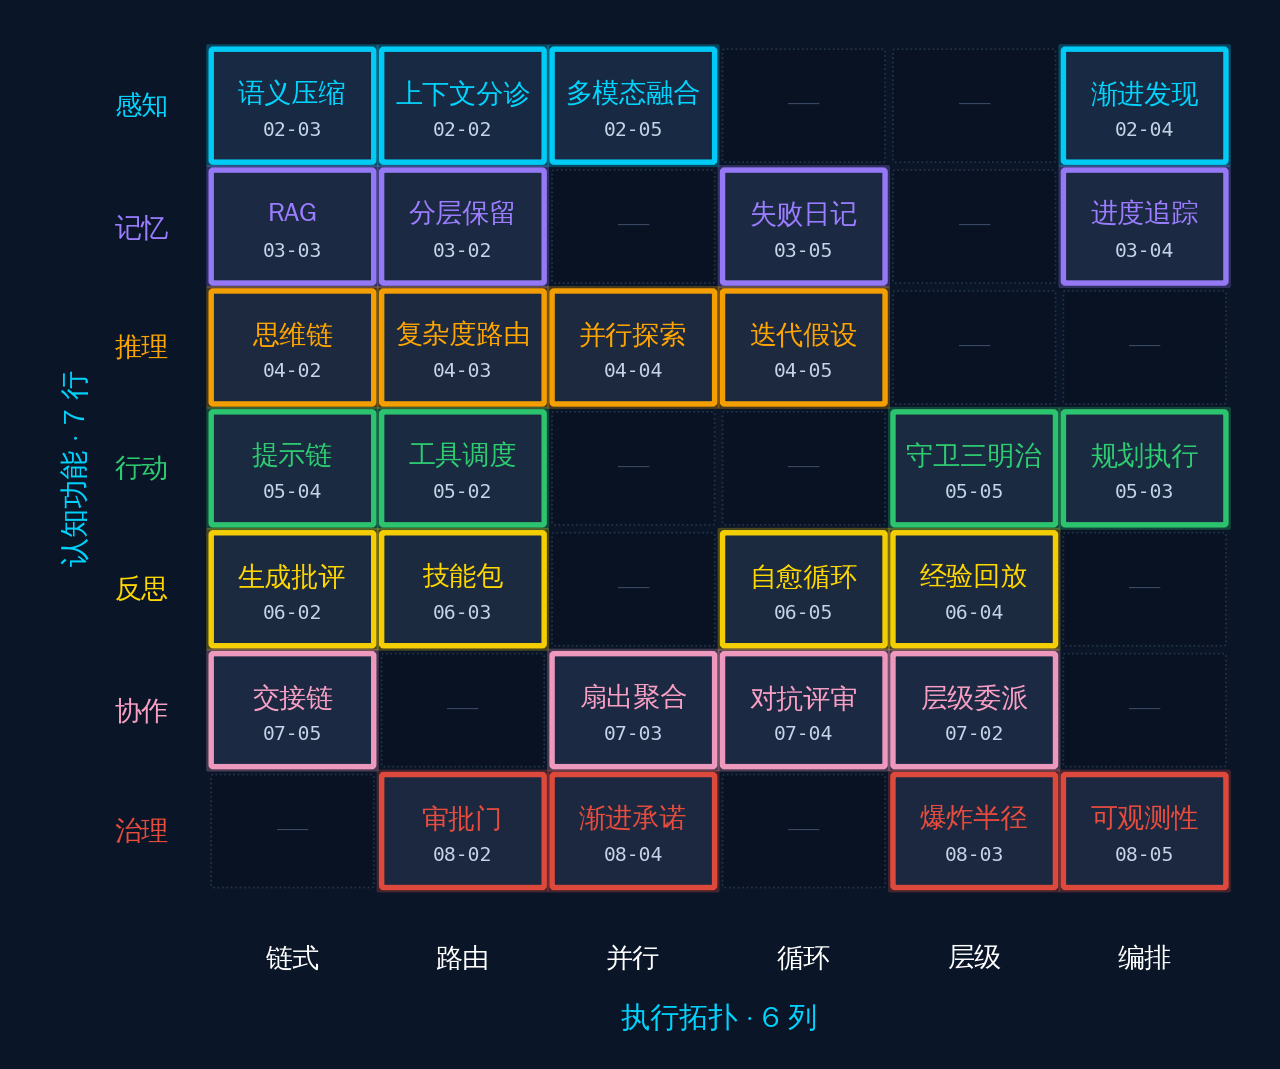
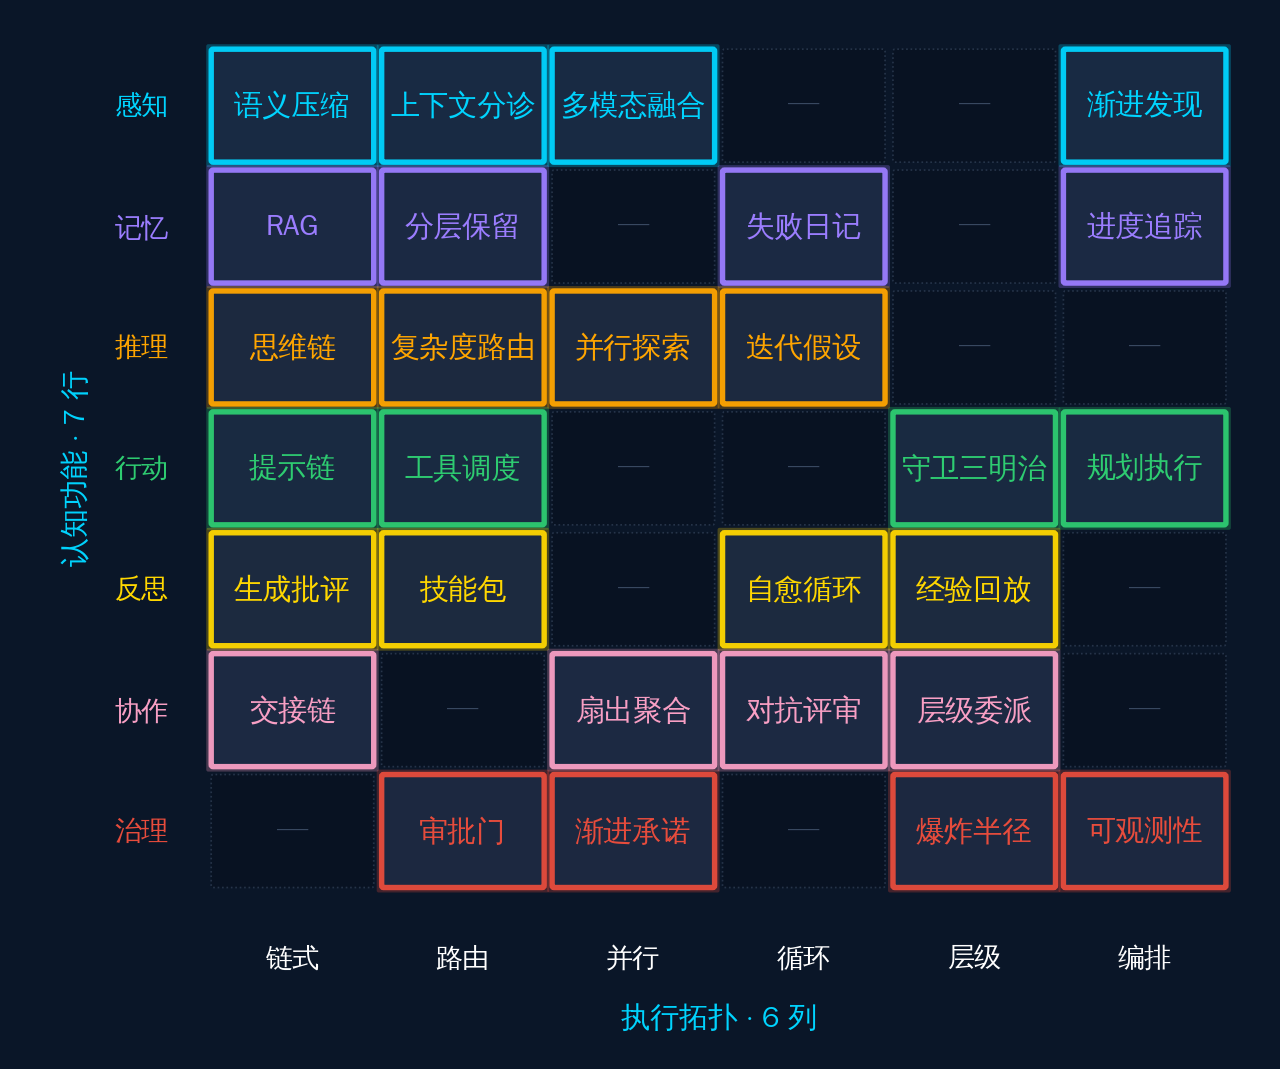
Patterns pages overhaul: new matrix PNG (no GeekTime codes, Orchestrate rightmost), drop duplicate image, EN listing now mirrors ZH with 33-pattern index + Choreography note, strip 课程对应 row from 33 detail pages

diff --git a/patterns/index.html b/patterns/index.html
@@ -43,7 +43,7 @@
 
             <p>
                 <strong>The model spends. The harness budgets.</strong> This catalog is the vocabulary
-                you can put in your project tomorrow.
+                you can put into your project tomorrow.
             </p>
 
             <p>
@@ -62,11 +62,11 @@
             </p>
 
             <figure style="margin: 2.5rem 0; text-align: center;">
-                <img src="/images/matrix-28-with-codes.png"
-                     alt="The 28-pattern matrix — full version with chapter codes"
+                <img src="/images/matrix-28-en-20260614.png"
+                     alt="The 28-pattern matrix — 7 cognitive functions × 6 execution topologies"
                      style="max-width: 100%; width: 100%; height: auto; border-radius: 6px; box-shadow: 0 2px 12px rgba(15, 58, 95, 0.12);">
                 <figcaption style="margin-top: 0.6rem; font-size: 0.88rem; color: var(--color-text-muted); font-style: italic;">
-                    Figure 1. The 28-pattern matrix. Rows are cognitive functions; columns are execution topologies. Codes (e.g. <code>02-03</code>) reference the chapter introducing the pattern in <em>Designing AI Agents</em>.
+                    The 28-pattern matrix. Rows are cognitive functions; columns are execution topologies. Empty cells mark industrial gaps and open-research frontiers.
                 </figcaption>
             </figure>
 
@@ -77,47 +77,111 @@
             </p>
             <p>
                 <strong>Execution topology</strong> (the columns) — what shape the work takes.
-                Six archetypes: Chain, Route, Parallel, Orchestrate, Loop, Hierarchy.
+                Six archetypes: Chain, Route, Parallel, Loop, Hierarchy, Orchestrate.
             </p>
             <p>
-                Crossed, the axes form a 7×6 = 42-cell matrix. Twenty-eight cells are populated by named patterns,
+                Crossed, the axes form a 7×6 = 42-cell matrix. Twenty-eight cells are populated by named patterns —
                 some borrowed from existing literature (RAG, Chain-of-Thought, Plan-and-Execute), some named here for
                 cells that had no established name (Context Triage, Failure Journal, Observability Harness, others).
-                Fourteen cells are intentionally empty — representing the industrial blanks and the future-research frontier.
+                Fourteen cells are intentionally empty — they mark industrial gaps and open-research frontiers.
+            </p>
+            <p style="font-size: 0.88rem; color: var(--color-text-muted); border-left: 3px solid var(--color-rule); padding-left: 0.9rem; margin: 1rem 0 1.5rem;">
+                <strong style="color: var(--color-text);">A note on Choreography.</strong>
+                Choreography is sometimes listed as a topology. We treat it instead as a coordination
+                mode that operates <em>across</em> topologies — closer in spirit to the Teams pattern
+                than to an independent execution shape — so it is described in the patterns text
+                rather than given its own column.
             </p>
 
-            <figure style="margin: 2.5rem 0; text-align: center;">
-                <img src="/images/matrix-28-minimal.png"
-                     alt="The 28-pattern matrix — minimal view, names only"
-                     style="max-width: 100%; width: 100%; height: auto; border-radius: 6px; box-shadow: 0 2px 12px rgba(15, 58, 95, 0.12);">
-                <figcaption style="margin-top: 0.6rem; font-size: 0.88rem; color: var(--color-text-muted); font-style: italic;">
-                    Figure 2. Minimal view of the same matrix — pattern names only. Empty cells are intentional.
-                </figcaption>
-            </figure>
-
-            <h2>Pattern white papers</h2>
+            <h2>Pattern white papers · 28 core + 5 extension = 33</h2>
             <p>
-                Every named cell in the matrix has a one-page enterprise white paper — what problem it
-                solves, what coordinate it sits at, where it tends to break, and what to monitor once it
-                ships. They are written for the whole organization, not just engineers: product,
-                architecture, R&amp;D, compliance, and management.
+                Every named cell has a one-page enterprise white paper: what problem it solves, what
+                coordinate it sits at, where it tends to break, and what to monitor once it ships.
+                Written for the whole organization — product, architecture, R&amp;D, compliance,
+                management — not just engineers.
             </p>
             <p>
-                Following the ADPS Chinese-first publishing pipeline, the 33 deep-dive white papers are
-                published in Chinese first; English editions are in progress.
-                <a href="/zh/patterns/">Browse the 33 white papers (Chinese) →</a>
+                Five <span style="font-size:0.72em; color: var(--color-brass, #b8842b); border:1px solid currentColor; border-radius:3px; padding:0 4px; vertical-align:middle;">extension</span>
+                patterns (M5 Procedural Memory · R5 Talker-Reasoner · A4 Minimal Tool Set · C5 Sub-Agent Isolation · G4 Hooks Pipeline)
+                sit alongside the 28 core patterns; each has its own white paper, bringing the total to 33.
+            </p>
+            <p style="font-size: 0.9rem; color: var(--color-text-muted); background: var(--color-quote-bg); border: 1px solid var(--color-rule); border-radius: 4px; padding: 0.7rem 1rem; margin: 1rem 0 1.5rem;">
+                Following the ADPS Chinese-first publishing pipeline, the 33 white papers are
+                currently published in Chinese. English editions are in progress; pattern links
+                below point to the Chinese white papers in the meantime.
             </p>
 
-            <h2>The matrix</h2>
+            <h3>Perception · 4 core</h3>
+            <ul style="list-style: none; margin: 0.5rem 0 1.75rem 0; padding: 0;">
+                <li style="margin-bottom: 0.7rem; line-height: 1.55;"><a href="/zh/patterns/p1-context-triage/" style="font-weight: 600;">P1 · Context Triage</a><span style="color: var(--color-text-muted);"> — When candidate information exceeds the context window budget, decide who enters, who waits at the door, and who is not pre-loaded at all.</span></li>
+                <li style="margin-bottom: 0.7rem; line-height: 1.55;"><a href="/zh/patterns/p2-semantic-compaction/" style="font-weight: 600;">P2 · Semantic Compaction</a><span style="color: var(--color-text-muted);"> — When the agent's context fills up, what to keep and how aggressively to compress determines whether it can still reason clearly afterward.</span></li>
+                <li style="margin-bottom: 0.7rem; line-height: 1.55;"><a href="/zh/patterns/p3-progressive-discovery/" style="font-weight: 600;">P3 · Progressive Discovery</a><span style="color: var(--color-text-muted);"> — Facing an unfamiliar information space, the agent scans broadly first, then focuses, then drills — a three-phase loop until the space is mapped.</span></li>
+                <li style="margin-bottom: 0.7rem; line-height: 1.55;"><a href="/zh/patterns/p4-multi-modal-fusion/" style="font-weight: 600;">P4 · Multi-Modal Fusion</a><span style="color: var(--color-text-muted);"> — Inputs arrive as images, text, tables, logs. Convert each to its LLM-friendliest form, then merge and pass to reasoning.</span></li>
+            </ul>
+
+            <h3>Memory · 4 core + 1 extension</h3>
+            <ul style="list-style: none; margin: 0.5rem 0 1.75rem 0; padding: 0;">
+                <li style="margin-bottom: 0.7rem; line-height: 1.55;"><a href="/zh/patterns/m1-hierarchical-retention/" style="font-weight: 600;">M1 · Hierarchical Retention</a><span style="color: var(--color-text-muted);"> — Slice agent memory into layers by scope; each layer has its own storage, lifecycle, and load strategy. New sessions load coarse-to-fine.</span></li>
+                <li style="margin-bottom: 0.7rem; line-height: 1.55;"><a href="/zh/patterns/m2-rag-pipeline/" style="font-weight: 600;">M2 · RAG Pipeline</a><span style="color: var(--color-text-muted);"> — Hand the agent an external library it can query, filter, and iterate against whenever the needed knowledge exceeds context capacity.</span></li>
+                <li style="margin-bottom: 0.7rem; line-height: 1.55;"><a href="/zh/patterns/m3-progress-tracking/" style="font-weight: 600;">M3 · Progress Tracking</a><span style="color: var(--color-text-muted);"> — On long tasks, the agent maintains an explicit structured todo list, externalizing state each round so both itself and the user can see progress.</span></li>
+                <li style="margin-bottom: 0.7rem; line-height: 1.55;"><a href="/zh/patterns/m4-failure-journals/" style="font-weight: 600;">M4 · Failure Journals</a><span style="color: var(--color-text-muted);"> — Each failure recorded as a structured entry (which step, what error, root cause, fix) — persisted across tasks, recalled on similar future runs.</span></li>
+                <li style="margin-bottom: 0.7rem; line-height: 1.55;"><a href="/zh/patterns/m5-procedural-memory/" style="font-weight: 600;">M5 · Procedural Memory</a> <span style="font-size:0.72em; color: var(--color-brass, #b8842b); border:1px solid currentColor; border-radius:3px; padding:0 4px; vertical-align:middle;">extension</span><span style="color: var(--color-text-muted);"> — Solidify successful execution flows for a task class into named, loadable, reusable assets; next time the same class arrives, skip exploration and run the main path.</span></li>
+            </ul>
+
+            <h3>Reasoning · 4 core + 1 extension</h3>
+            <ul style="list-style: none; margin: 0.5rem 0 1.75rem 0; padding: 0;">
+                <li style="margin-bottom: 0.7rem; line-height: 1.55;"><a href="/zh/patterns/r1-chain-of-thought/" style="font-weight: 600;">R1 · Chain-of-Thought</a><span style="color: var(--color-text-muted);"> — Make the model's reasoning explicit as a structured, storable, auditable, cross-model-portable record. "Why did it conclude that" becomes inspectable.</span></li>
+                <li style="margin-bottom: 0.7rem; line-height: 1.55;"><a href="/zh/patterns/r2-complexity-based-routing/" style="font-weight: 600;">R2 · Complexity-Based Routing</a><span style="color: var(--color-text-muted);"> — Before entering the main loop, route by complexity signal to model + effort tier; cheap requests run on cheap models, hard ones on expensive ones. Sort by triage, not by uniform retry.</span></li>
+                <li style="margin-bottom: 0.7rem; line-height: 1.55;"><a href="/zh/patterns/r3-parallel-exploration/" style="font-weight: 600;">R3 · Parallel Exploration</a><span style="color: var(--color-text-muted);"> — Deliberately fire N independent reasoning chains for the same query, then aggregate into a single answer. Compute traded for accuracy.</span></li>
+                <li style="margin-bottom: 0.7rem; line-height: 1.55;"><a href="/zh/patterns/r4-iterative-hypothesis-testing/" style="font-weight: 600;">R4 · Iterative Hypothesis Testing</a><span style="color: var(--color-text-muted);"> — Form a hypothesis, validate with evidence, revise on the result; loop until evidence converges or the iteration cap is reached. Scientific method, embedded into reasoning.</span></li>
+                <li style="margin-bottom: 0.7rem; line-height: 1.55;"><a href="/zh/patterns/r5-talker-reasoner/" style="font-weight: 600;">R5 · Talker-Reasoner</a> <span style="font-size:0.72em; color: var(--color-brass, #b8842b); border:1px solid currentColor; border-radius:3px; padding:0 4px; vertical-align:middle;">extension</span><span style="color: var(--color-text-muted);"> — Split the agent into a fast shallow Talker and a slow deep Reasoner, coordinated through a shared belief state. The agent can think deeply and still reply to the user in real time.</span></li>
+            </ul>
+
+            <h3>Action · 4 core + 1 extension</h3>
+            <ul style="list-style: none; margin: 0.5rem 0 1.75rem 0; padding: 0;">
+                <li style="margin-bottom: 0.7rem; line-height: 1.55;"><a href="/zh/patterns/a1-tool-dispatch/" style="font-weight: 600;">A1 · Tool Dispatch</a><span style="color: var(--color-text-muted);"> — Before each action step, the engineering layer picks the most appropriate tool from the registry using metadata — not by letting the model decide on the fly.</span></li>
+                <li style="margin-bottom: 0.7rem; line-height: 1.55;"><a href="/zh/patterns/a2-plan-and-execute/" style="font-weight: 600;">A2 · Plan-and-Execute</a><span style="color: var(--color-text-muted);"> — Agent generates a complete plan first (with dependencies, resource estimates, approval nodes), then executes it; on deviation, replan locally rather than rewrite globally.</span></li>
+                <li style="margin-bottom: 0.7rem; line-height: 1.55;"><a href="/zh/patterns/a3-prompt-chaining/" style="font-weight: 600;">A3 · Prompt Chaining</a><span style="color: var(--color-text-muted);"> — Decompose a complex task into a series of smaller tasks, each driven by its own prompt; the output of one step feeds the next.</span></li>
+                <li style="margin-bottom: 0.7rem; line-height: 1.55;"><a href="/zh/patterns/a4-minimal-tool-set/" style="font-weight: 600;">A4 · Minimal Tool Set</a> <span style="font-size:0.72em; color: var(--color-brass, #b8842b); border:1px solid currentColor; border-radius:3px; padding:0 4px; vertical-align:middle;">extension</span><span style="color: var(--color-text-muted);"> — Cap the agent's tool set at a reasonable ceiling (usually 10–30): drop low-frequency tools, merge similar ones, push secondary tools into sub-agents. Give the model room to choose.</span></li>
+                <li style="margin-bottom: 0.7rem; line-height: 1.55;"><a href="/zh/patterns/a5-guardrail-sandwich/" style="font-weight: 600;">A5 · Guardrail Sandwich</a><span style="color: var(--color-text-muted);"> — Around every side-effecting or high-risk action, wrap a pre-check / action / post-check sandwich. Move the agent from "free action" to "supervised action".</span></li>
+            </ul>
+
+            <h3>Reflection · 4 core</h3>
+            <ul style="list-style: none; margin: 0.5rem 0 1.75rem 0; padding: 0;">
+                <li style="margin-bottom: 0.7rem; line-height: 1.55;"><a href="/zh/patterns/f1-generator-critic/" style="font-weight: 600;">F1 · Generator-Critic</a><span style="color: var(--color-text-muted);"> — Two roles inside one agent: Generator writes, Critic reviews; loop until the critic passes or the iteration cap is reached.</span></li>
+                <li style="margin-bottom: 0.7rem; line-height: 1.55;"><a href="/zh/patterns/f2-skill-package/" style="font-weight: 600;">F2 · Skill Package</a><span style="color: var(--color-text-muted);"> — Package repeatedly successful workflows into named, loadable, reusable assets; on the next similar task, load instead of rediscovering from scratch.</span></li>
+                <li style="margin-bottom: 0.7rem; line-height: 1.55;"><a href="/zh/patterns/f3-experience-replay/" style="font-weight: 600;">F3 · Experience Replay</a><span style="color: var(--color-text-muted);"> — When a new task arrives, the agent actively retrieves similar historical task trajectories and injects reusable parts into current context. What was learned does not go to waste.</span></li>
+                <li style="margin-bottom: 0.7rem; line-height: 1.55;"><a href="/zh/patterns/f4-self-heal-loop/" style="font-weight: 600;">F4 · Self-Heal Loop</a><span style="color: var(--color-text-muted);"> — On a deterministic failure signal, the agent auto-diagnoses, fixes, validates, loops — until convergence or a circuit breaker.</span></li>
+            </ul>
+
+            <h3>Collaboration · 4 core + 1 extension</h3>
+            <ul style="list-style: none; margin: 0.5rem 0 1.75rem 0; padding: 0;">
+                <li style="margin-bottom: 0.7rem; line-height: 1.55;"><a href="/zh/patterns/c1-hierarchical-delegation/" style="font-weight: 600;">C1 · Hierarchical Delegation</a><span style="color: var(--color-text-muted);"> — A supervisor agent dynamically splits a task, dispatches to N worker agents, and merges results. Classic multi-agent supervisor/worker coordination.</span></li>
+                <li style="margin-bottom: 0.7rem; line-height: 1.55;"><a href="/zh/patterns/c2-fan-out-gather/" style="font-weight: 600;">C2 · Fan-Out / Gather</a><span style="color: var(--color-text-muted);"> — An orchestrator dispatches independent sub-tasks to N sub-agents in parallel; an aggregator merges them via a defined strategy. N× compute for 1/N latency.</span></li>
+                <li style="margin-bottom: 0.7rem; line-height: 1.55;"><a href="/zh/patterns/c3-adversarial-review/" style="font-weight: 600;">C3 · Adversarial Review</a><span style="color: var(--color-text-muted);"> — Pair a generator agent with one or more independent critics; critics must use different models, different families, different prompting incentives. Structured adversarial loop improves the output.</span></li>
+                <li style="margin-bottom: 0.7rem; line-height: 1.55;"><a href="/zh/patterns/c4-handoff-chain/" style="font-weight: 600;">C4 · Handoff Chain</a><span style="color: var(--color-text-muted);"> — Split a long flow into N agents with clear responsibilities; each hands off a structured HandoffPacket (not raw text) to the next. Each agent is good at one thing.</span></li>
+                <li style="margin-bottom: 0.7rem; line-height: 1.55;"><a href="/zh/patterns/c5-sub-agent-isolation/" style="font-weight: 600;">C5 · Sub-Agent Isolation</a> <span style="font-size:0.72em; color: var(--color-brass, #b8842b); border:1px solid currentColor; border-radius:3px; padding:0 4px; vertical-align:middle;">extension</span><span style="color: var(--color-text-muted);"> — Sub-agents run in isolated context; before returning, they must compress into a schema-shaped artifact. The parent agent reads the artifact, not the raw trajectory.</span></li>
+            </ul>
+
+            <h3>Governance · 4 core + 1 extension</h3>
+            <ul style="list-style: none; margin: 0.5rem 0 1.75rem 0; padding: 0;">
+                <li style="margin-bottom: 0.7rem; line-height: 1.55;"><a href="/zh/patterns/g1-approval-gate/" style="font-weight: 600;">G1 · Approval Gate</a><span style="color: var(--color-text-muted);"> — Before any high-blast-radius or irreversible action, route by risk to one of three lanes: auto-pass / log / human review. Humans retain final veto at the critical decision points.</span></li>
+                <li style="margin-bottom: 0.7rem; line-height: 1.55;"><a href="/zh/patterns/g2-blast-radius-control/" style="font-weight: 600;">G2 · Blast Radius Control</a><span style="color: var(--color-text-muted);"> — Classify actions (readonly / mutating / catastrophic) and use nested engineering boundaries to lock the maximum loss from a single failure.</span></li>
+                <li style="margin-bottom: 0.7rem; line-height: 1.55;"><a href="/zh/patterns/g3-progressive-commitment/" style="font-weight: 600;">G3 · Progressive Commitment</a><span style="color: var(--color-text-muted);"> — The agent starts read-only; permissions unlock in stages — to writes, then to irreversible actions. Each tier earned with evidence; failures trigger immediate demotion.</span></li>
+                <li style="margin-bottom: 0.7rem; line-height: 1.55;"><a href="/zh/patterns/g4-hooks-pipeline/" style="font-weight: 600;">G4 · Hooks Pipeline</a> <span style="font-size:0.72em; color: var(--color-brass, #b8842b); border:1px solid currentColor; border-radius:3px; padding:0 4px; vertical-align:middle;">extension</span><span style="color: var(--color-text-muted);"> — Attach deterministic interception layers before and after tool calls and agent steps. Strip from the prompt anything the model shouldn't be left to decide — guarantee it in hooks.</span></li>
+                <li style="margin-bottom: 0.7rem; line-height: 1.55;"><a href="/zh/patterns/g5-observability-harness/" style="font-weight: 600;">G5 · Observability Harness</a><span style="color: var(--color-text-muted);"> — Attach five-dimensional telemetry across the agent lifecycle; thread traces across agents. Replay after the fact, audit for compliance, decide for product.</span></li>
+            </ul>
+
+            <h2>Runnable catalog</h2>
             <p>
                 The full matrix, runnable code, and an engineering slice for each pattern live in the
                 companion GitHub repository:
             </p>
             <ul style="margin: 0.5rem 0 1rem 1.5rem; list-style: disc;">
                 <li><a href="https://github.com/huangjia2019/agent-design-patterns" target="_blank" rel="noopener"><strong>huangjia2019/agent-design-patterns</strong></a>
-                    — standalone catalog, each pattern self-contained and runnable in isolation. <em>(Will migrate under the ADPS organization.)</em></li>
+                    — standalone catalog; each pattern self-contained and runnable in isolation. <em>(Will migrate under the ADPS organization.)</em></li>
                 <li><a href="https://github.com/huangjia2019/designing-ai-agents" target="_blank" rel="noopener"><strong>huangjia2019/designing-ai-agents</strong></a>
-                    — companion to the Manning book; Argus runtime grows chapter by chapter.</li>
+                    — companion to the Manning book; the Argus runtime grows chapter by chapter.</li>
             </ul>
 
             <h2>The methodology</h2>

diff --git a/zh/patterns/index.html b/zh/patterns/index.html
@@ -59,11 +59,11 @@
             </p>
 
             <figure style="margin: 2.5rem 0; text-align: center;">
-                <img src="/images/matrix-28-with-codes.png"
-                     alt="28 模式矩阵——完整版含讲号"
+                <img src="/images/matrix-28-zh-20260614.png"
+                     alt="28 模式矩阵——7 个认知功能 × 6 种执行拓扑"
                      style="max-width: 100%; width: 100%; height: auto; border-radius: 6px; box-shadow: 0 2px 12px rgba(15, 58, 95, 0.12);">
                 <figcaption style="margin-top: 0.6rem; font-size: 0.88rem; color: var(--color-text-muted); font-style: italic;">
-                    图 1. 28 模式矩阵。行为认知功能，列为执行拓扑。讲号（如 <code>02-03</code>）对应《Designing AI Agents》中介绍该模式的章节。
+                    28 模式矩阵。行为认知功能，列为执行拓扑。空白格是工业空白与未来研究的前沿。
                 </figcaption>
             </figure>
 
@@ -81,15 +81,11 @@
                 （RAG、思维链、规划执行），一部分是为之前无名的格子在本框架里第一次命名（上下文分诊、
                 失败日记、可观测性等）。剩下的 14 格是<em>有意空白</em>的，代表工业空白和未来研究的前沿。
             </p>
-
-            <figure style="margin: 2.5rem 0; text-align: center;">
-                <img src="/images/matrix-28-minimal.png"
-                     alt="28 模式矩阵——极简版，只留模式名"
-                     style="max-width: 100%; width: 100%; height: auto; border-radius: 6px; box-shadow: 0 2px 12px rgba(15, 58, 95, 0.12);">
-                <figcaption style="margin-top: 0.6rem; font-size: 0.88rem; color: var(--color-text-muted); font-style: italic;">
-                    图 2. 同一矩阵的极简视图——只留模式名。空白格是有意为之。
-                </figcaption>
-            </figure>
+            <p style="font-size: 0.88rem; color: var(--color-text-muted); border-left: 3px solid var(--color-rule); padding-left: 0.9rem; margin: 1rem 0 1.5rem;">
+                <strong style="color: var(--color-text);">关于编舞（Choreography）。</strong>
+                编舞有时被列为一种拓扑。这里没有把它当成独立的列——它是跨拓扑的协调模式，
+                精神上更接近 Teams 模式，不是独立的执行形态。所以放在模式正文里讨论，不单独占一列。
+            </p>
 
             <h2>模式矩阵白皮书 · 28 核心 + 5 扩展 = 33</h2>
             <p>

diff --git a/zh/patterns/a1-tool-dispatch/index.html b/zh/patterns/a1-tool-dispatch/index.html
@@ -58,12 +58,7 @@
             <tr>
             <td style="text-align: left;"><strong>成本档</strong></td>
             <td style="text-align: left;">①（与单次调用同量级，元数据开销可忽略）</td>
-            </tr>
-            <tr>
-            <td style="text-align: left;"><strong>课程对应</strong></td>
-            <td style="text-align: left;">05-02</td>
-            </tr>
-            <tr>
+            </tr>            <tr>
             <td style="text-align: left;"><strong>目录归属</strong></td>
             <td style="text-align: left;">全集 33 模式之一 · 行动模块 5 模式之一</td>
             </tr>

diff --git a/zh/patterns/a2-plan-and-execute/index.html b/zh/patterns/a2-plan-and-execute/index.html
@@ -58,12 +58,7 @@
             <tr>
             <td style="text-align: left;"><strong>成本档</strong></td>
             <td style="text-align: left;">②（一次规划 + 多次执行，异构模型可显著压成本）</td>
-            </tr>
-            <tr>
-            <td style="text-align: left;"><strong>课程对应</strong></td>
-            <td style="text-align: left;">05-03</td>
-            </tr>
-            <tr>
+            </tr>            <tr>
             <td style="text-align: left;"><strong>目录归属</strong></td>
             <td style="text-align: left;">全集 33 模式之一 · 行动模块 5 模式之一</td>
             </tr>

diff --git a/zh/patterns/a3-prompt-chaining/index.html b/zh/patterns/a3-prompt-chaining/index.html
@@ -58,12 +58,7 @@
             <tr>
             <td style="text-align: left;"><strong>成本档</strong></td>
             <td style="text-align: left;">②（拆成 N 段、N 次调用，但每段可用更便宜的模型摊薄）</td>
-            </tr>
-            <tr>
-            <td style="text-align: left;"><strong>课程对应</strong></td>
-            <td style="text-align: left;">05-04</td>
-            </tr>
-            <tr>
+            </tr>            <tr>
             <td style="text-align: left;"><strong>目录归属</strong></td>
             <td style="text-align: left;">全集 33 模式之一 · 行动模块 5 模式之一</td>
             </tr>

diff --git a/zh/patterns/a4-minimal-tool-set/index.html b/zh/patterns/a4-minimal-tool-set/index.html
@@ -58,12 +58,7 @@
             <tr>
             <td style="text-align: left;"><strong>成本档</strong></td>
             <td style="text-align: left;">①（砍工具本身省 token，是净收益）</td>
-            </tr>
-            <tr>
-            <td style="text-align: left;"><strong>课程对应</strong></td>
-            <td style="text-align: left;">并入 05-02</td>
-            </tr>
-            <tr>
+            </tr>            <tr>
             <td style="text-align: left;"><strong>目录归属</strong></td>
             <td style="text-align: left;">全集 33 模式之一 · 行动模块 5 模式之一</td>
             </tr>

diff --git a/zh/patterns/a5-guardrail-sandwich/index.html b/zh/patterns/a5-guardrail-sandwich/index.html
@@ -58,12 +58,7 @@
             <tr>
             <td style="text-align: left;"><strong>成本档</strong></td>
             <td style="text-align: left;">☷（跨切关注点，开销随风险分级浮动）</td>
-            </tr>
-            <tr>
-            <td style="text-align: left;"><strong>课程对应</strong></td>
-            <td style="text-align: left;">05-05</td>
-            </tr>
-            <tr>
+            </tr>            <tr>
             <td style="text-align: left;"><strong>目录归属</strong></td>
             <td style="text-align: left;">全集 33 模式之一 · 行动模块 5 模式之一</td>
             </tr>

diff --git a/zh/patterns/c1-hierarchical-delegation/index.html b/zh/patterns/c1-hierarchical-delegation/index.html
@@ -58,12 +58,7 @@
             <tr>
             <td style="text-align: left;"><strong>成本档</strong></td>
             <td style="text-align: left;">③（3-15× 单 agent 调用）</td>
-            </tr>
-            <tr>
-            <td style="text-align: left;"><strong>课程对应</strong></td>
-            <td style="text-align: left;">07-02</td>
-            </tr>
-            <tr>
+            </tr>            <tr>
             <td style="text-align: left;"><strong>目录归属</strong></td>
             <td style="text-align: left;">全集 33 模式之一 · 协作模块 5 模式之一</td>
             </tr>

diff --git a/zh/patterns/c2-fan-out-gather/index.html b/zh/patterns/c2-fan-out-gather/index.html
@@ -58,12 +58,7 @@
             <tr>
             <td style="text-align: left;"><strong>成本档</strong></td>
             <td style="text-align: left;">③（N× 单 agent 调用，换 1/N 时长）</td>
-            </tr>
-            <tr>
-            <td style="text-align: left;"><strong>课程对应</strong></td>
-            <td style="text-align: left;">07-03</td>
-            </tr>
-            <tr>
+            </tr>            <tr>
             <td style="text-align: left;"><strong>目录归属</strong></td>
             <td style="text-align: left;">全集 33 模式之一 · 协作模块 5 模式之一</td>
             </tr>

diff --git a/zh/patterns/c3-adversarial-review/index.html b/zh/patterns/c3-adversarial-review/index.html
@@ -58,12 +58,7 @@
             <tr>
             <td style="text-align: left;"><strong>成本档</strong></td>
             <td style="text-align: left;">③（约 9× 单次调用，3 agent × 3 round）</td>
-            </tr>
-            <tr>
-            <td style="text-align: left;"><strong>课程对应</strong></td>
-            <td style="text-align: left;">07-04</td>
-            </tr>
-            <tr>
+            </tr>            <tr>
             <td style="text-align: left;"><strong>目录归属</strong></td>
             <td style="text-align: left;">全集 33 模式之一 · 协作模块 5 模式之一</td>
             </tr>

diff --git a/zh/patterns/c4-handoff-chain/index.html b/zh/patterns/c4-handoff-chain/index.html
@@ -58,12 +58,7 @@
             <tr>
             <td style="text-align: left;"><strong>成本档</strong></td>
             <td style="text-align: left;">②（每次交接加一次 LLM 调用）</td>
-            </tr>
-            <tr>
-            <td style="text-align: left;"><strong>课程对应</strong></td>
-            <td style="text-align: left;">07-05</td>
-            </tr>
-            <tr>
+            </tr>            <tr>
             <td style="text-align: left;"><strong>目录归属</strong></td>
             <td style="text-align: left;">全集 33 模式之一 · 协作模块 5 模式之一</td>
             </tr>

diff --git a/zh/patterns/c5-sub-agent-isolation/index.html b/zh/patterns/c5-sub-agent-isolation/index.html
@@ -58,12 +58,7 @@
             <tr>
             <td style="text-align: left;"><strong>成本档</strong></td>
             <td style="text-align: left;">☷（跨切关注点，叠加在其他协作模式上）</td>
-            </tr>
-            <tr>
-            <td style="text-align: left;"><strong>课程对应</strong></td>
-            <td style="text-align: left;">并入 07-02 / 07-01 讲（是独立模式）</td>
-            </tr>
-            <tr>
+            </tr>            <tr>
             <td style="text-align: left;"><strong>目录归属</strong></td>
             <td style="text-align: left;">全集 33 模式之一 · 协作模块 5 模式之一</td>
             </tr>